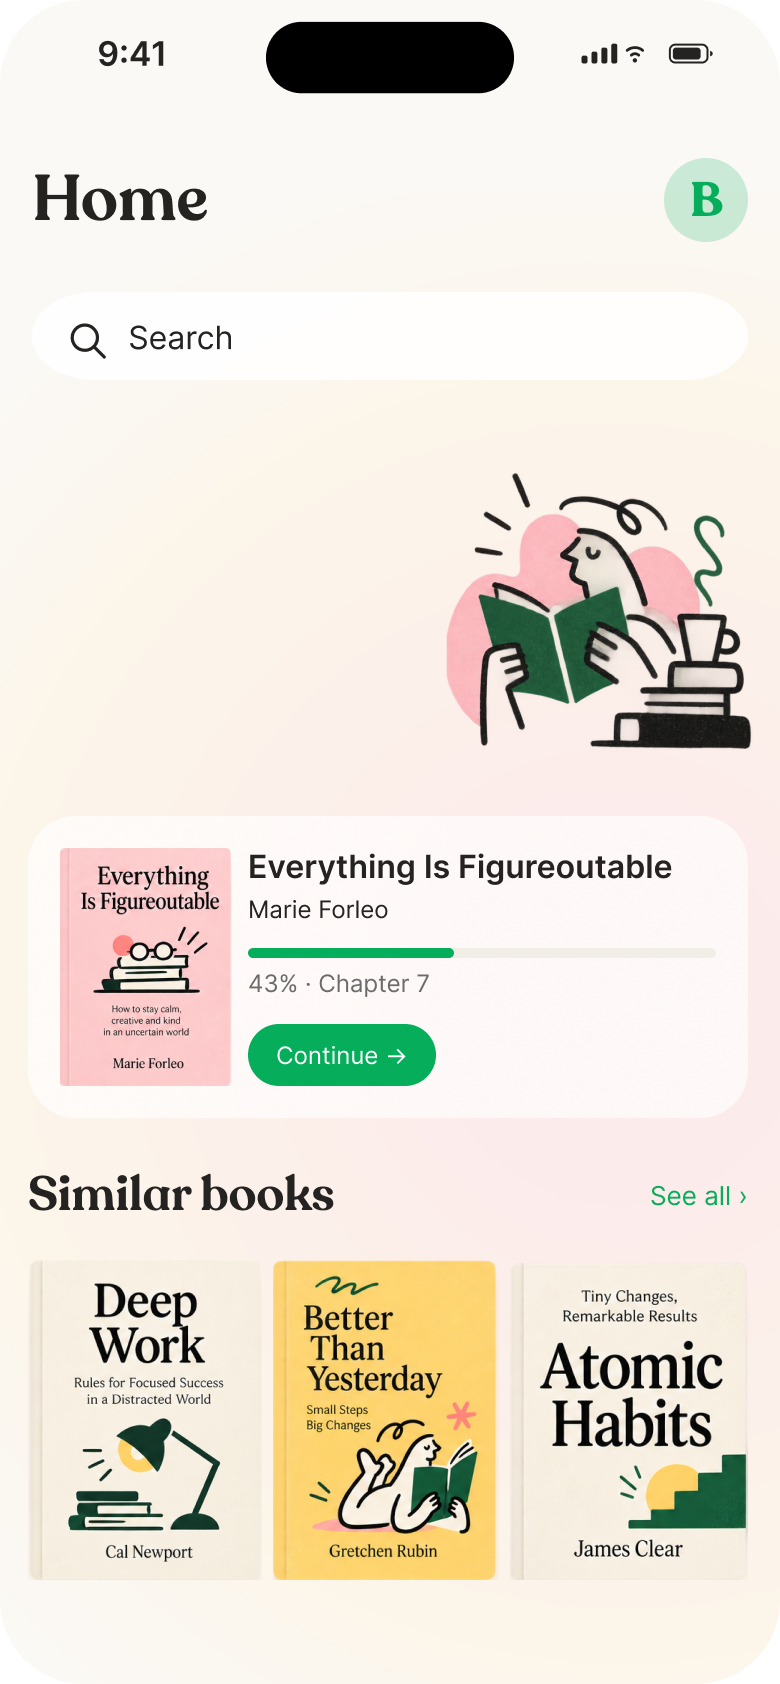
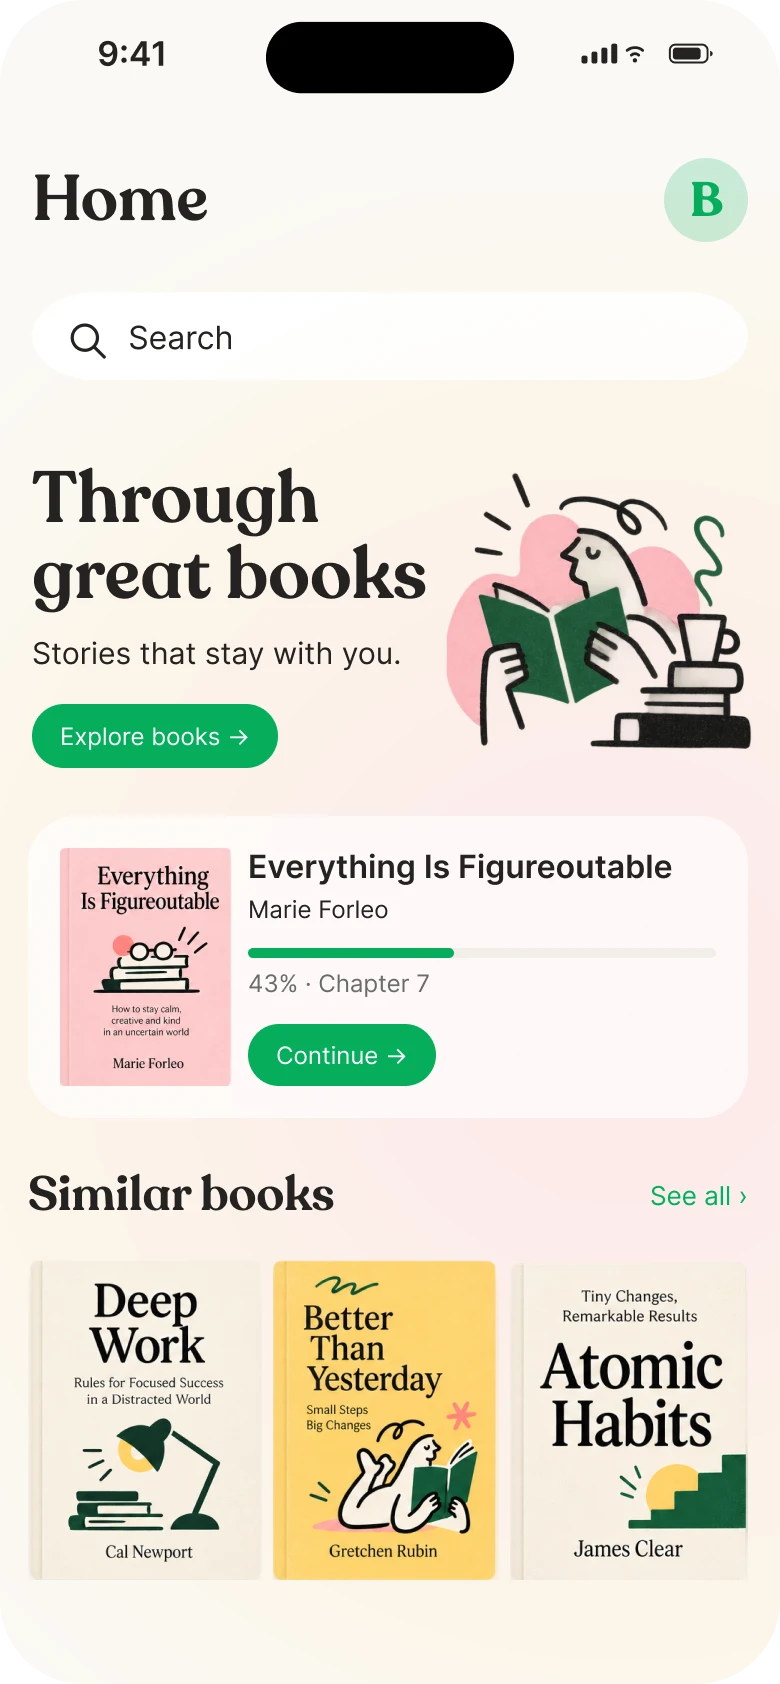
Lu: новый экран Home в блоке AI (с заголовком Through great books)

Changed region(s): [[0.0308, 0.2779, 0.5538, 0.4632], [0.3692, 0.6176, 0.4923, 0.6485], [0.8615, 0.7102, 0.8923, 0.7411]]

diff --git a/lu.html b/lu.html
@@ -82,7 +82,7 @@
         <div class="phones">
           <div class="pic"><img src="assets/img/case/lu/ai-1.webp?v=2" width="780" height="1688" alt="Поиск книг с открытой клавиатурой" loading="lazy"></div>
           <div class="pic"><img src="assets/img/case/lu/ai-2.webp?v=2" width="780" height="1688" alt="Ассистент Lu: «Какое у тебя сегодня настроение?»" loading="lazy"></div>
-          <div class="pic"><img src="assets/img/case/lu/ai-3.webp?v=2" width="780" height="1684" alt="Главный экран Home" loading="lazy"></div>
+          <div class="pic"><img src="assets/img/case/lu/ai-3.webp?v=3" width="780" height="1684" alt="Главный экран Home" loading="lazy"></div>
         </div>
 
         <div class="lu-set">
